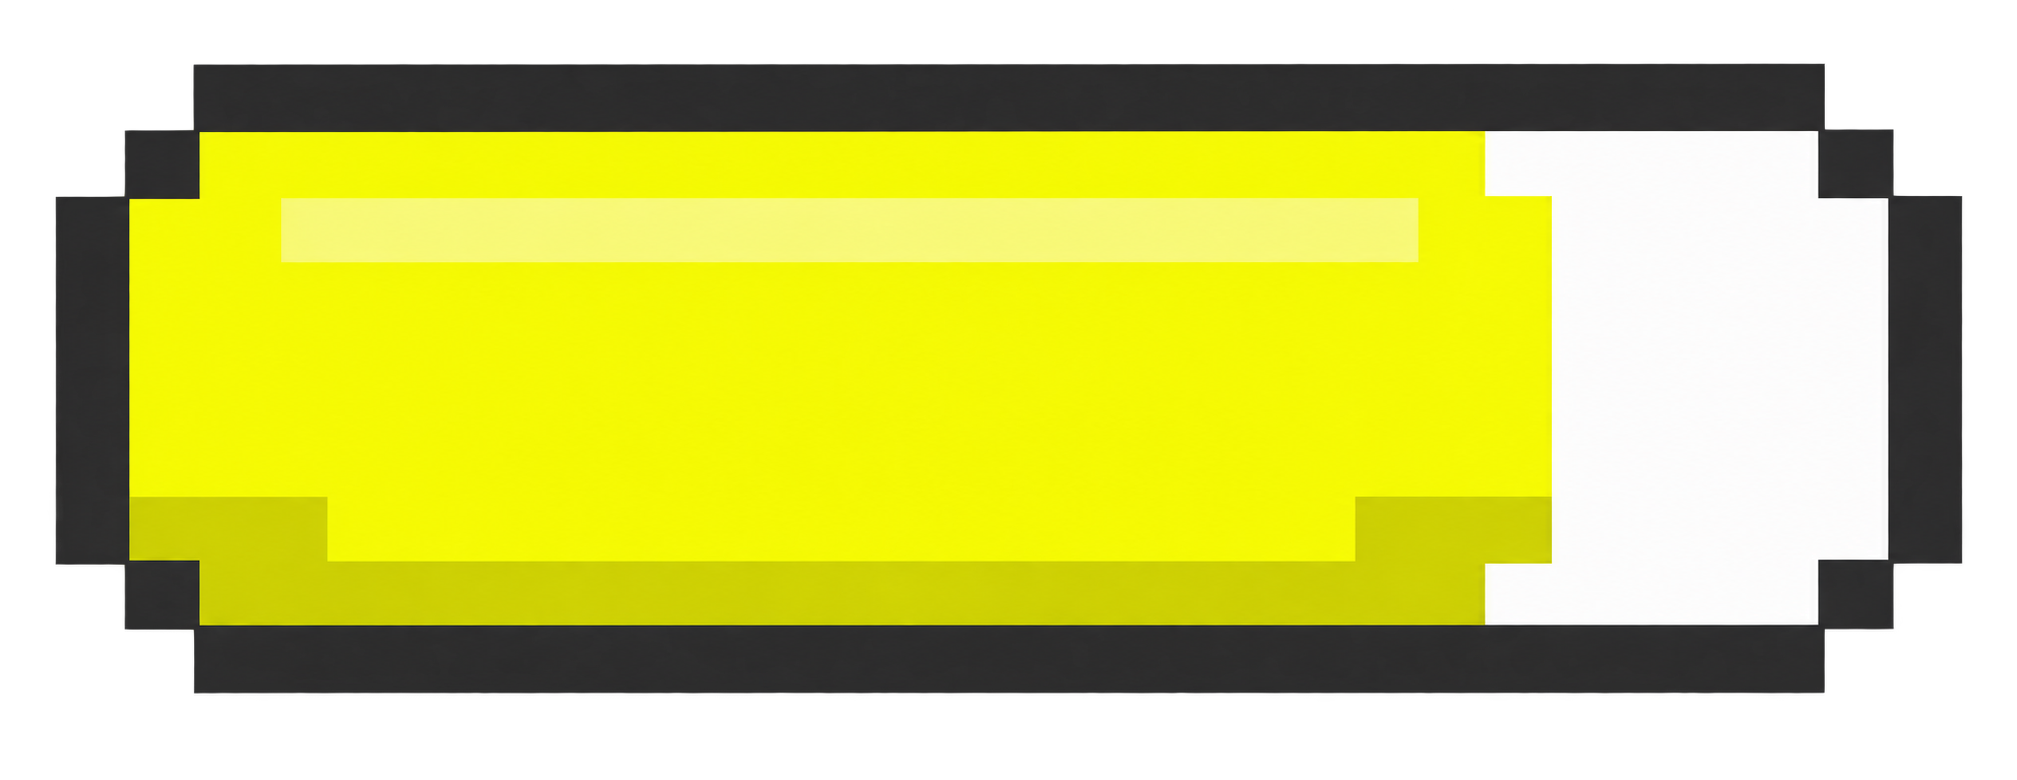
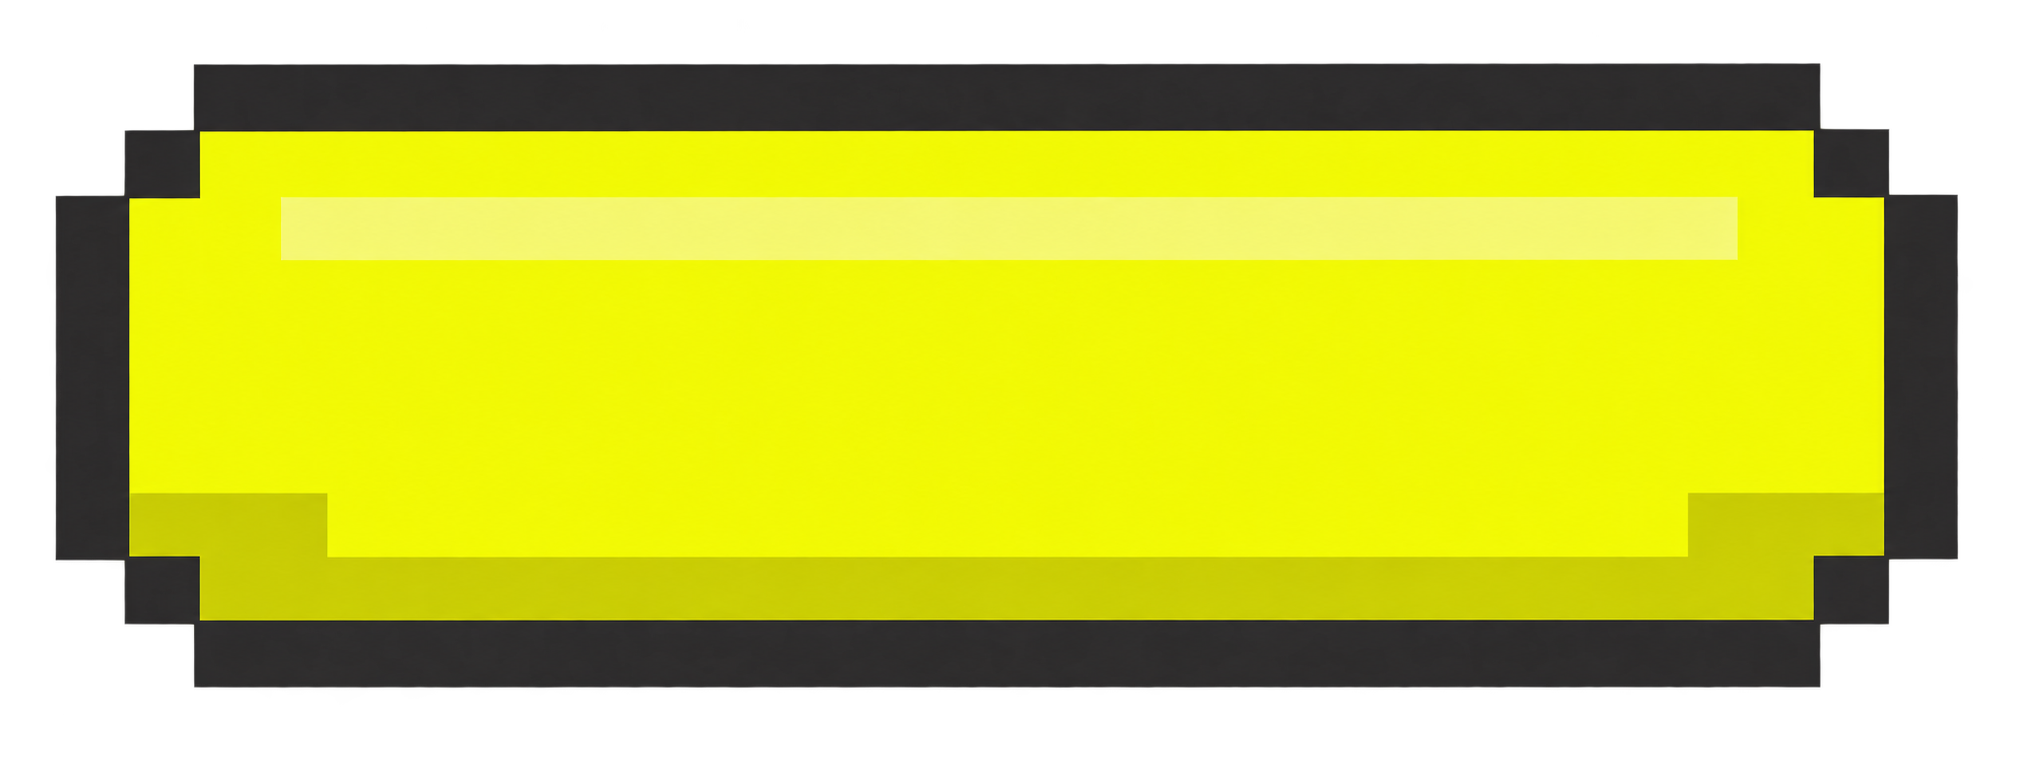
Start each level with a fully filled yellow countdown battery

diff --git a/src/gummy-game.ts b/src/gummy-game.ts
@@ -9,12 +9,13 @@ import lifeHeartUrl from './assets/life-heart.png'
 import levelLabelsUrl from './assets/level-labels.png'
 import victoryUrl from './assets/all-levels-clear.png'
 import homeIconUrl from './assets/home-icon.png'
+import batteryUrl from './assets/timer-battery.png'
 import { createTouchMovement } from './touch-movement'
 
 let preparedImages: Promise<HTMLImageElement[]> | undefined
 export function prepareGameImages() {
   return preparedImages ??= Promise.all([retryIconUrl, levelUpUrl, gameOverUrl, lifeHeartUrl,
-    levelLabelsUrl, victoryUrl, homeIconUrl, countdownUrl, countdownDigitsUrl].map(loadImage))
+    levelLabelsUrl, victoryUrl, homeIconUrl, countdownUrl, countdownDigitsUrl, batteryUrl].map(loadImage))
 }
 
 type Drop = { x: number; y: number; speed: number; kind: number; angle: number; double?: boolean }
@@ -204,7 +205,8 @@ export function createGummyGame(host: HTMLElement, assets: PlayAssets) {
       levelEl.innerHTML = `<span class="level-pixel-text" role="img" aria-label="${label}" style="background-image:url('${levelLabelsUrl}');background-position:center ${(100 + level * 230) / (1280 - 190) * 100}%"></span>`
     }
     timeEl.textContent = `${Math.ceil(remaining)}sec`
-    timeFill.style.width = `${24 + (1 - remaining / levels[level]!.seconds) * 69.5}%`
+    const fraction = Math.max(0, Math.min(1, remaining / levels[level]!.seconds))
+    timeFill.style.width = fraction === 1 ? '0%' : `${6 + (1 - fraction) * 88}%`
   }
   function beginLevel() {
     touchMovement.clear()
